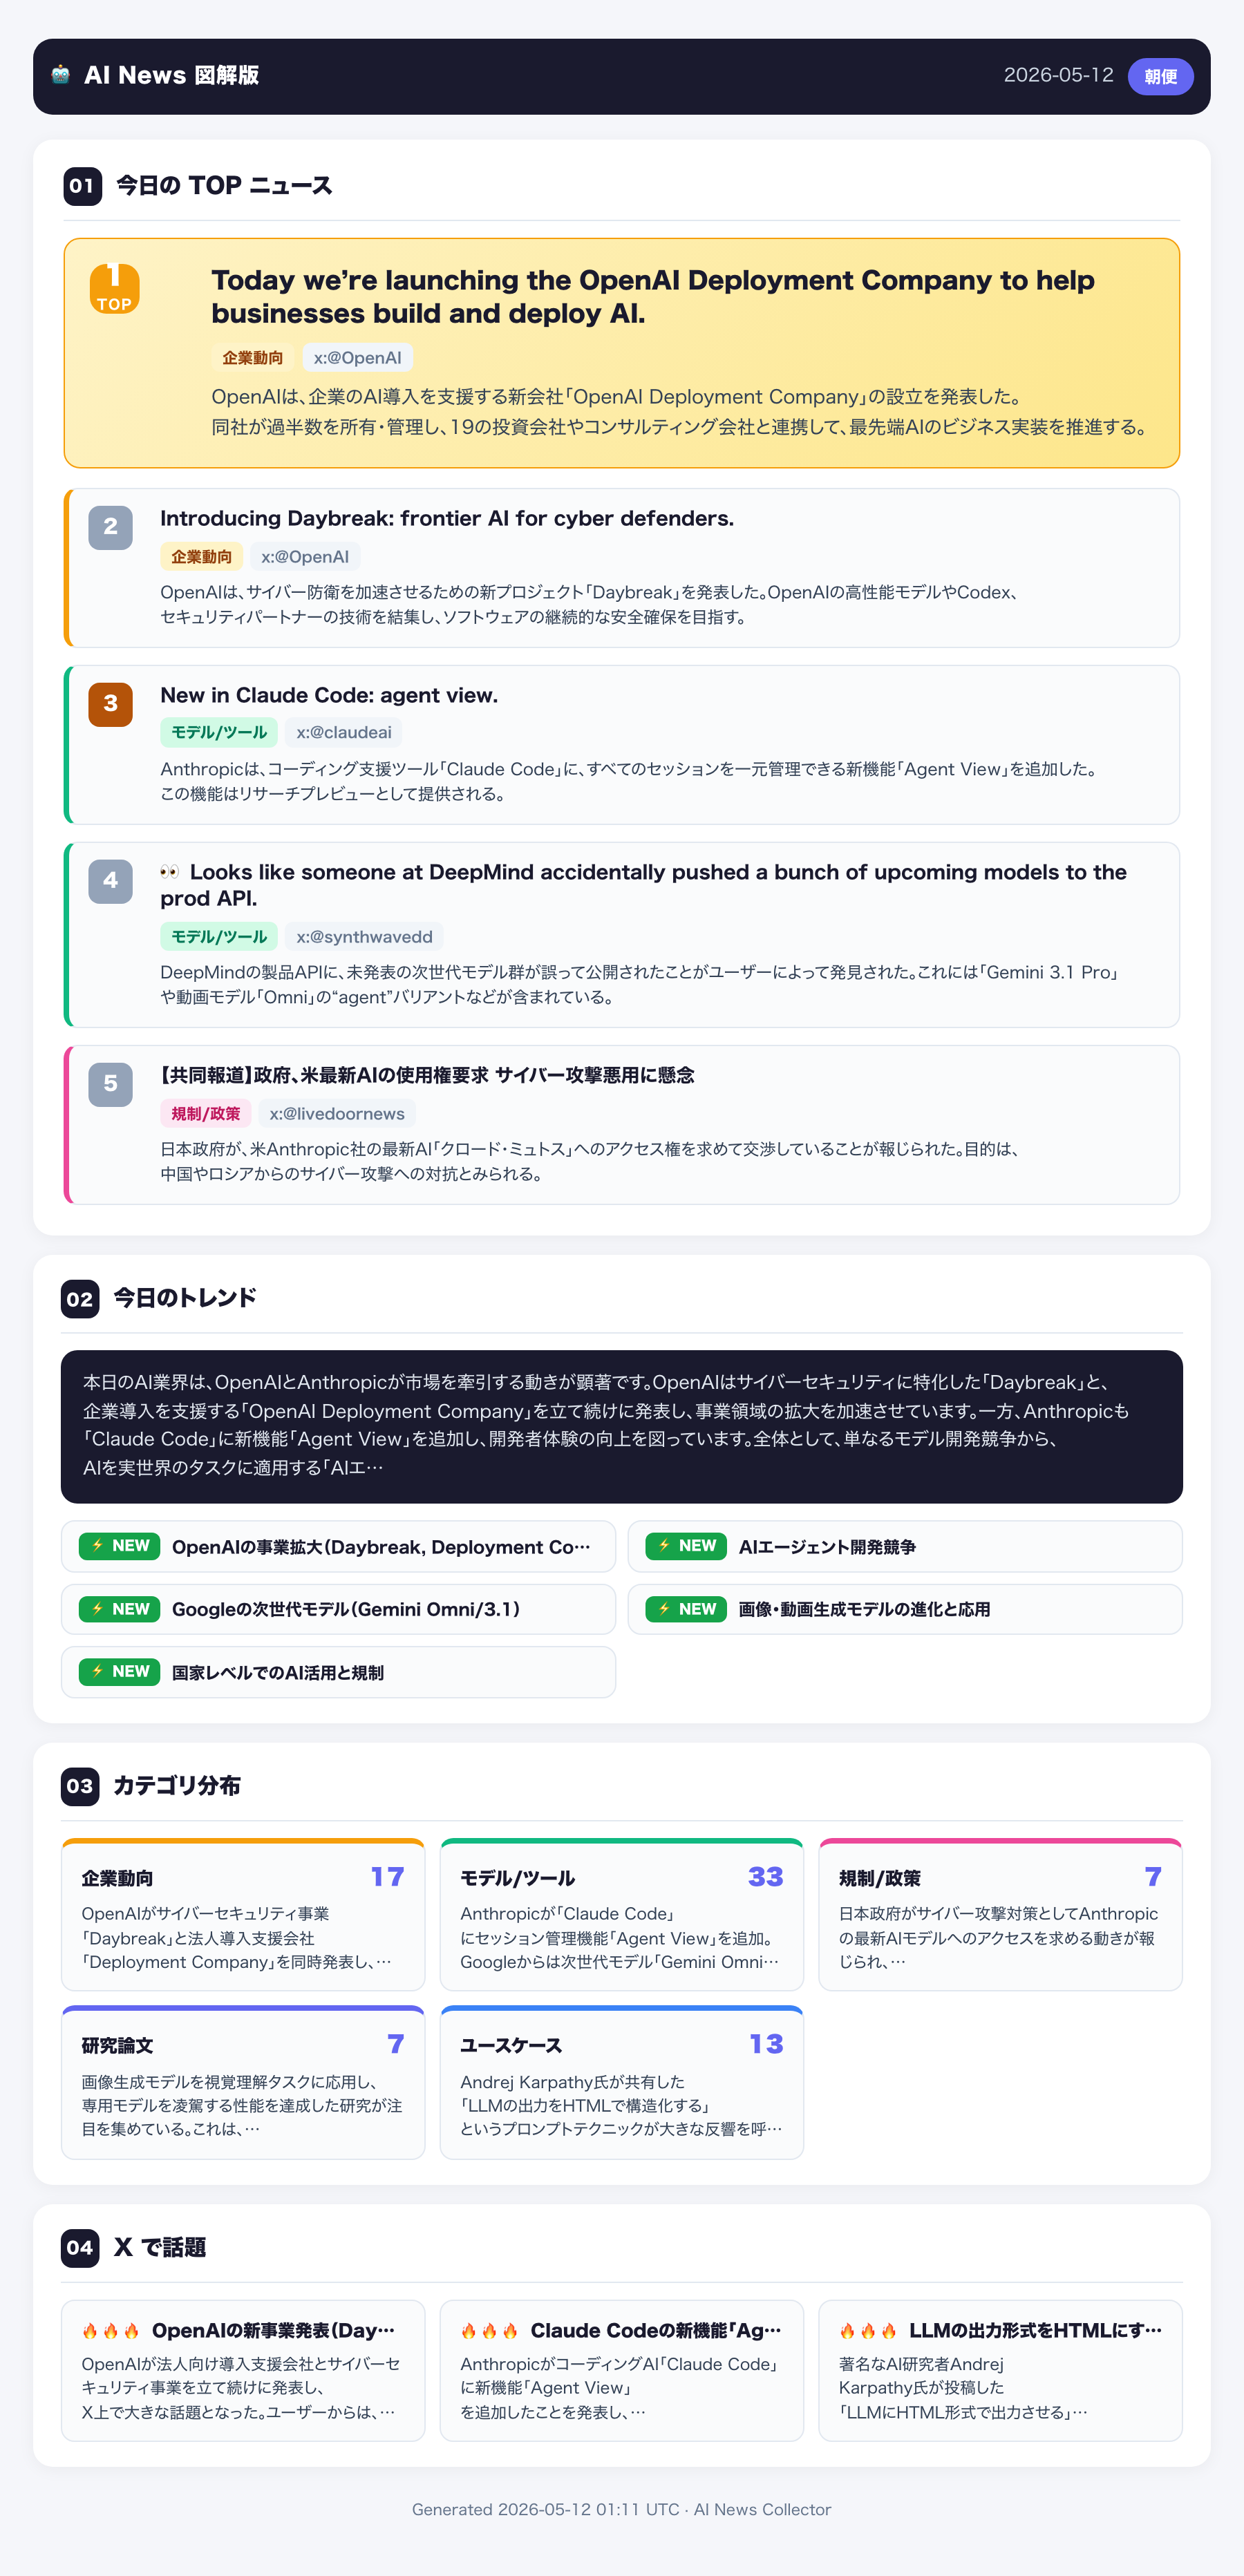
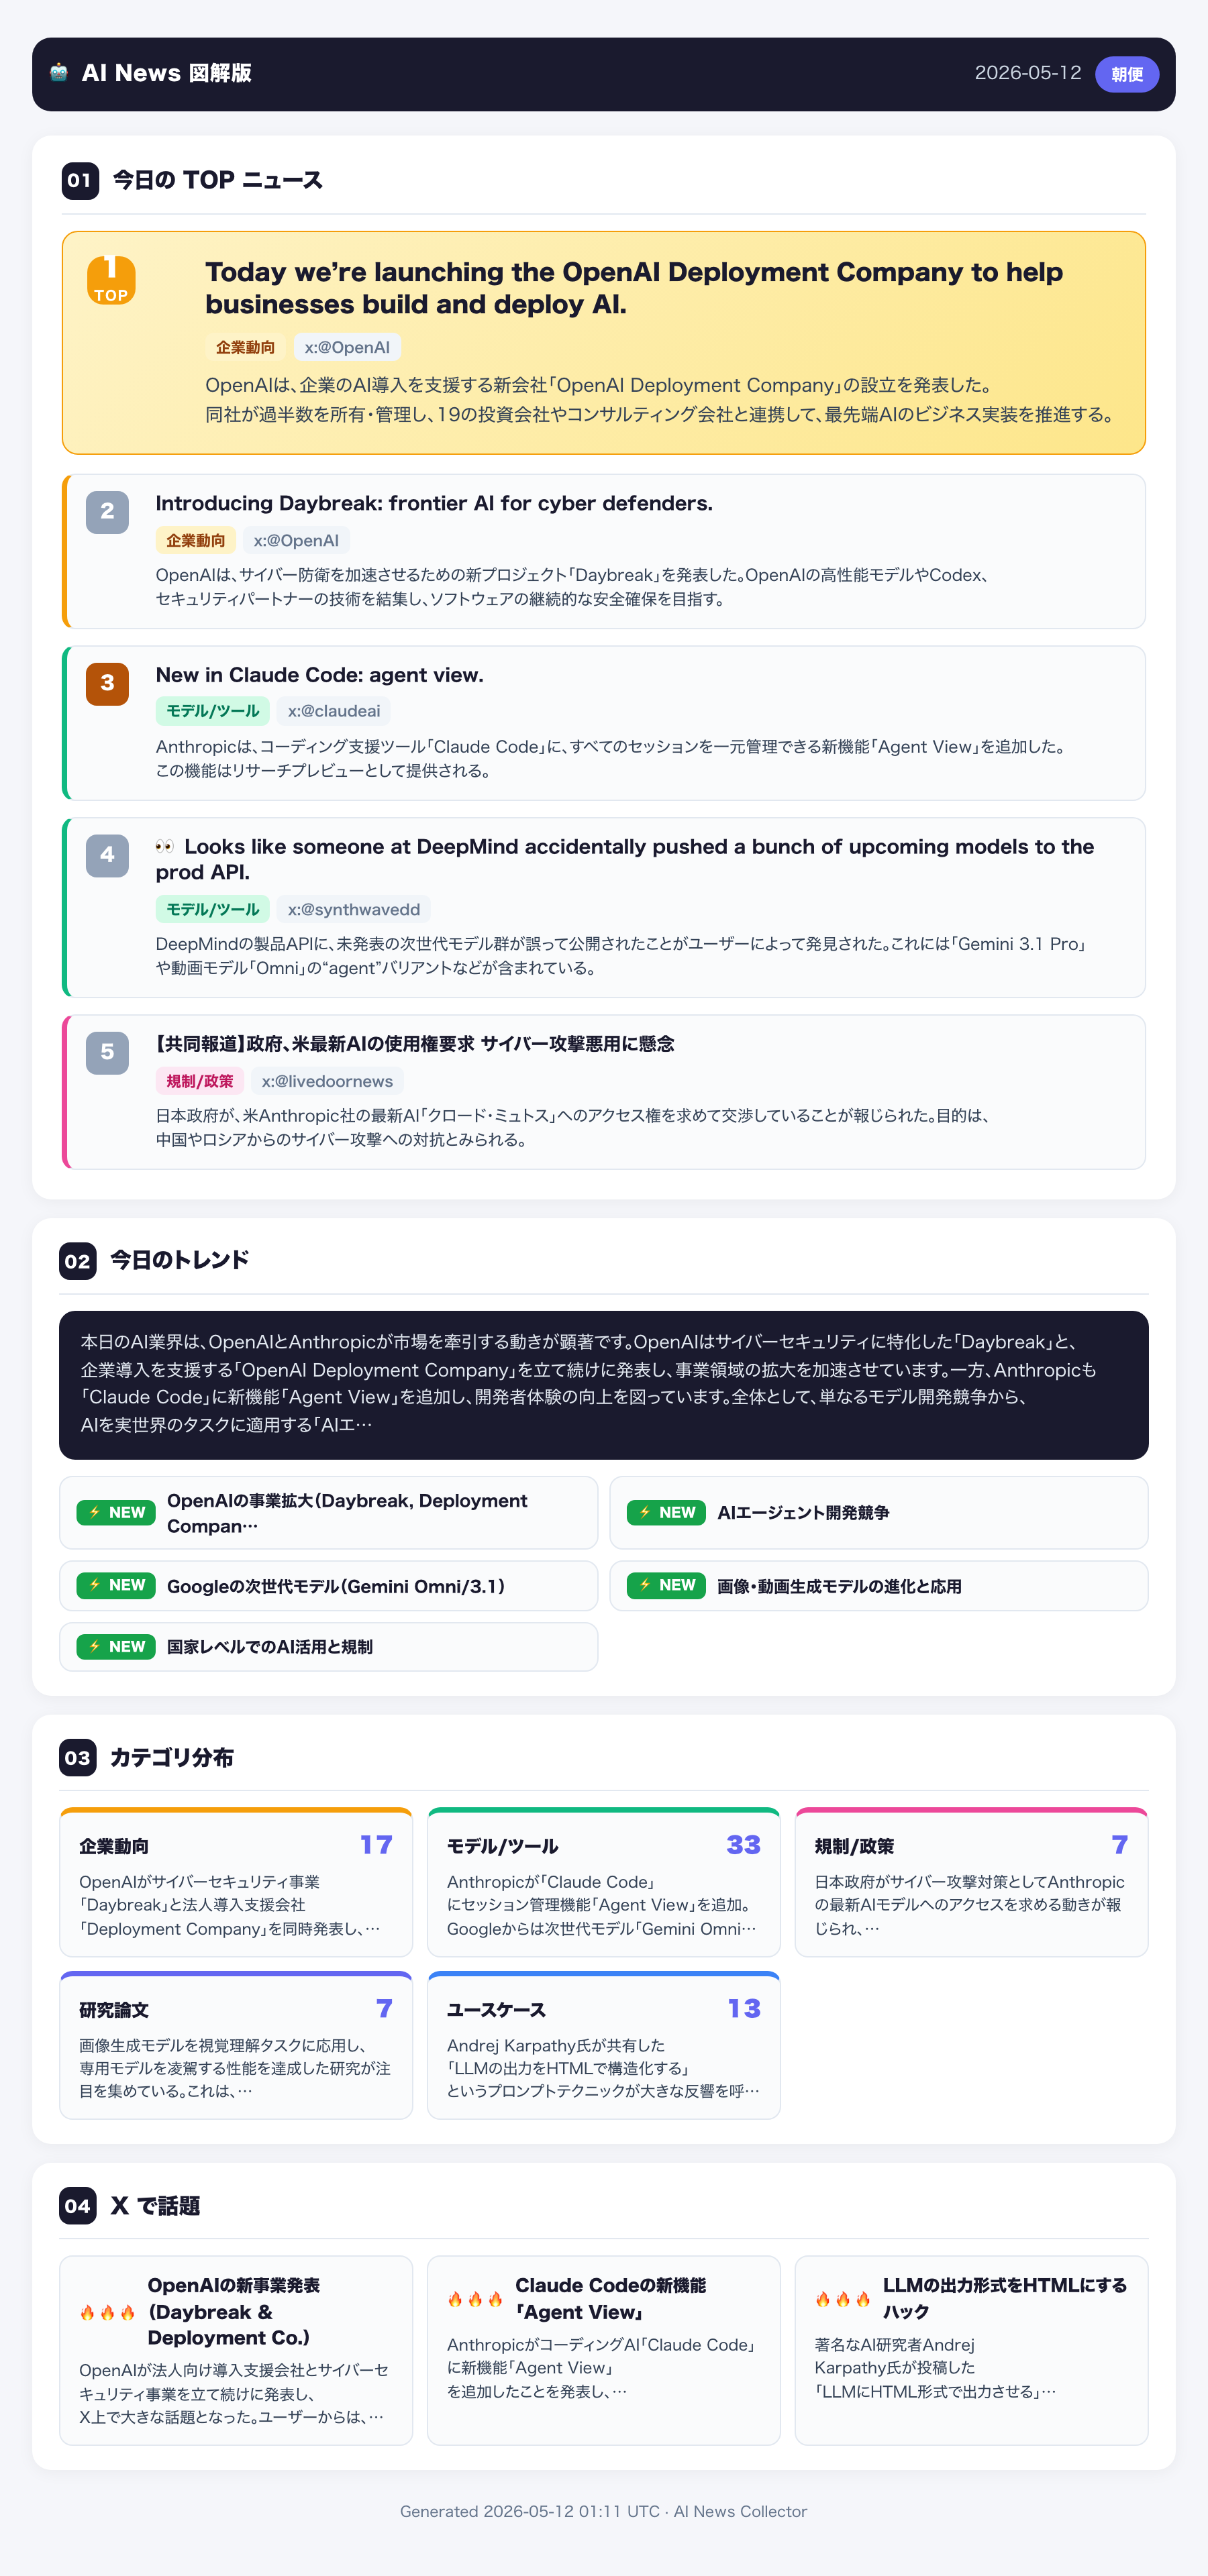
fix: show full title in x-card and topic-chip (no ellipsis truncation)

diff --git a/docs/diagrams/2026-05-12-morning.html b/docs/diagrams/2026-05-12-morning.html
@@ -299,9 +299,8 @@
     color: var(--ink);
     flex: 1;
     min-width: 0;
-    overflow: hidden;
-    text-overflow: ellipsis;
-    white-space: nowrap;
+    overflow-wrap: break-word;
+    word-break: break-word;
   }
   .topic-chip .streak {
     font-size: 10px;
@@ -382,9 +381,8 @@
     color: var(--ink);
     flex: 1;
     min-width: 0;
-    overflow: hidden;
-    text-overflow: ellipsis;
-    white-space: nowrap;
+    overflow-wrap: break-word;
+    word-break: break-word;
   }
   .x-card .desc {
     font-size: 11.5px;